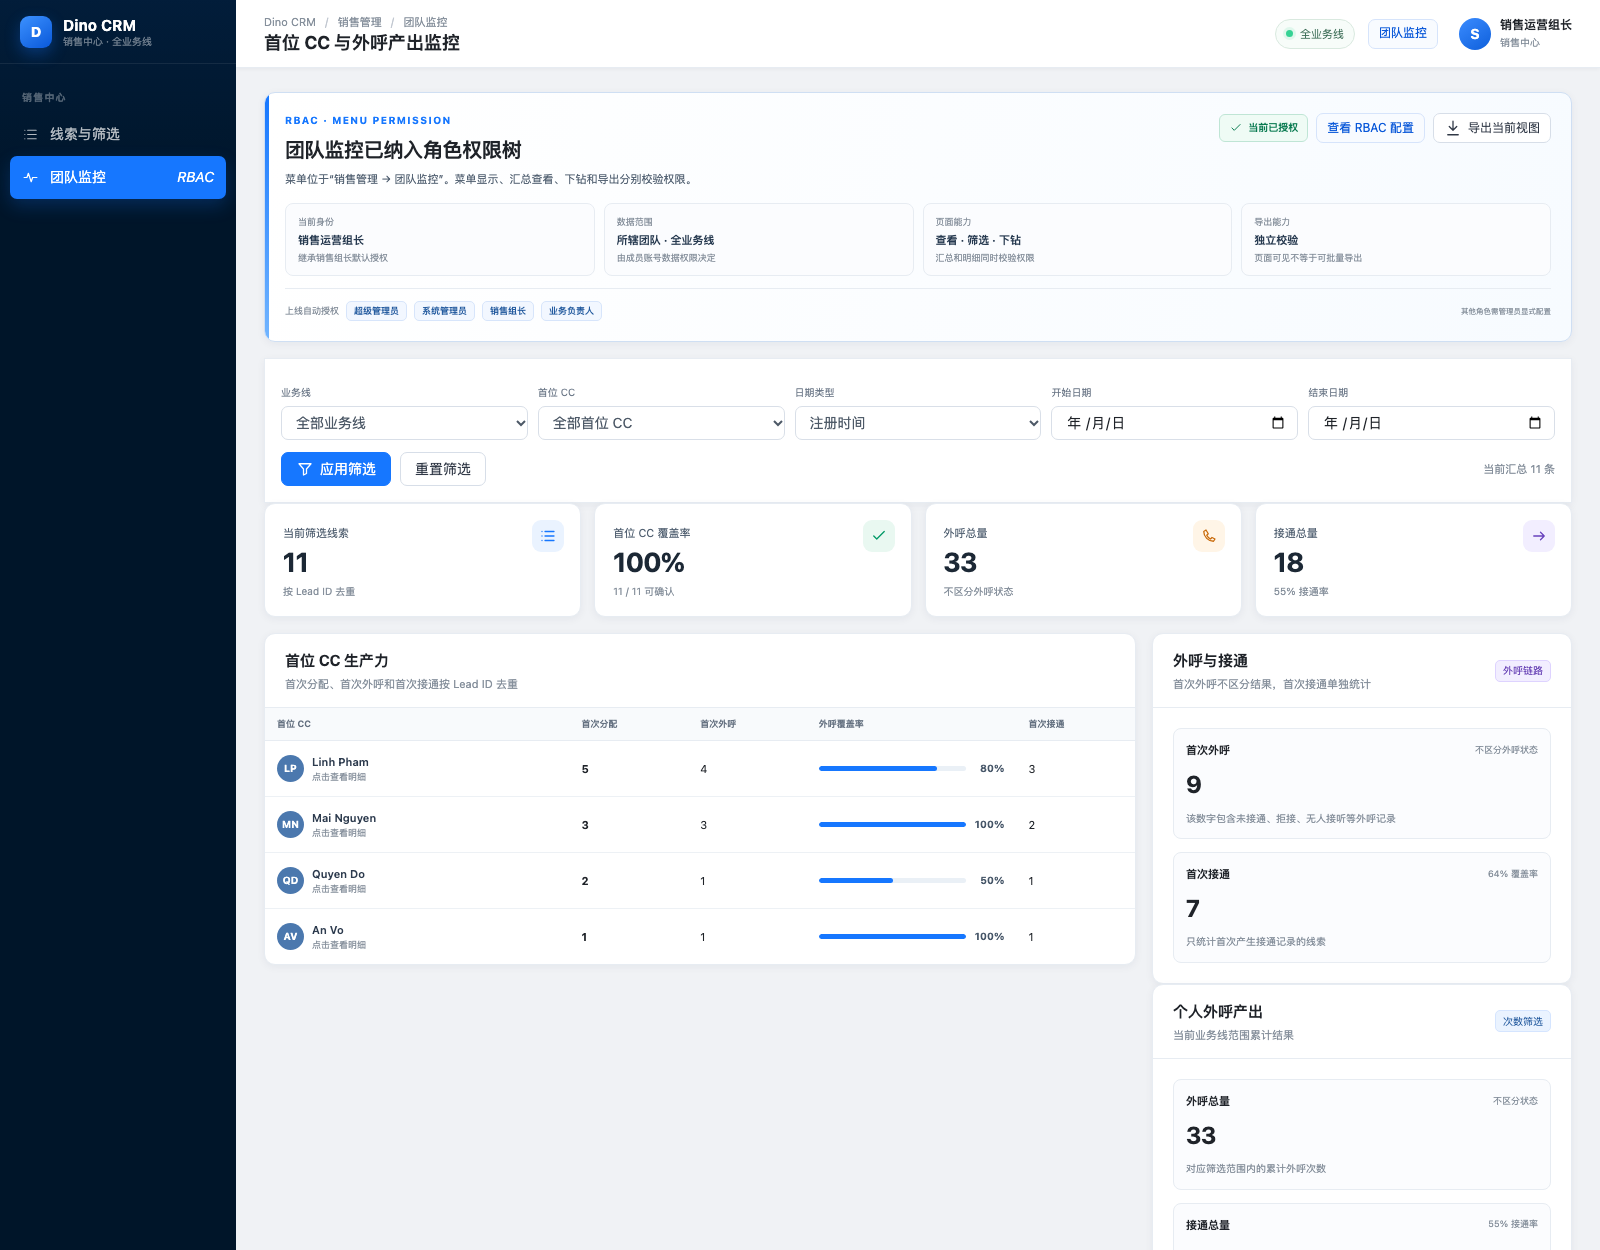
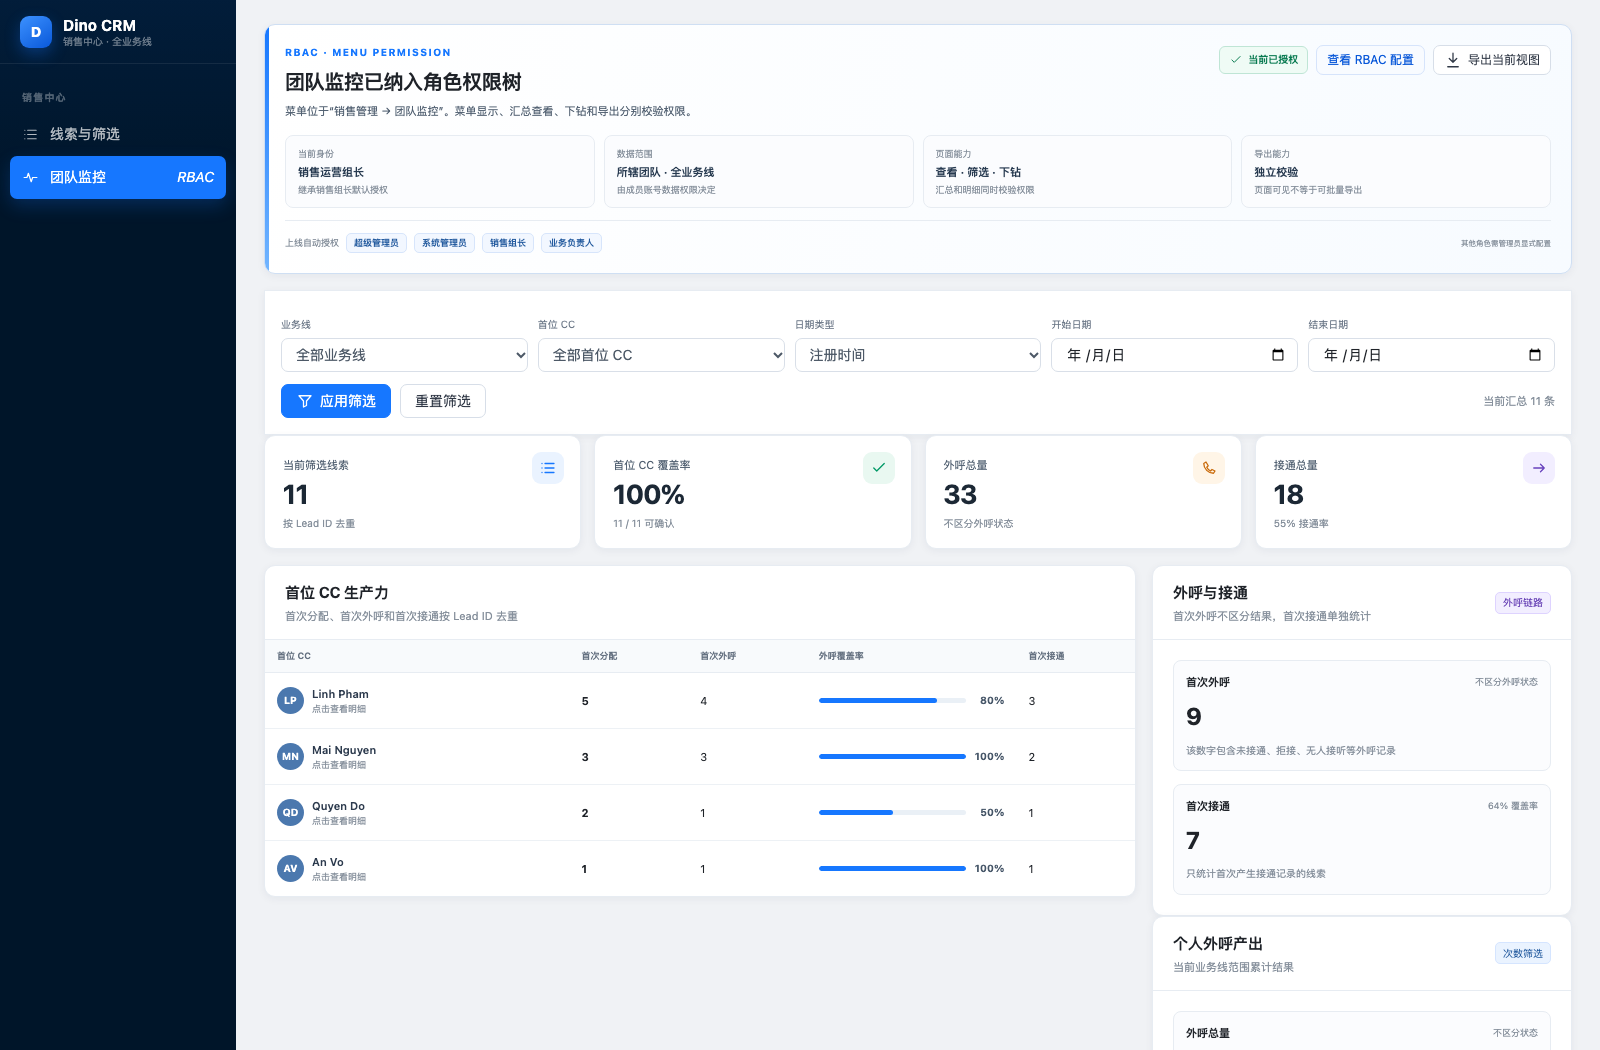
fix: remove prototype page header
Removes the global prototype header while retaining sidebar navigation and a lightweight mobile menu trigger.

diff --git a/projects/first-contact/prototype/index.html b/projects/first-contact/prototype/index.html
@@ -47,25 +47,10 @@
     </aside>
 
     <div class="workspace">
-      <header class="topbar">
-        <div class="topbar-left">
-          <button class="icon-btn menu-btn" id="menu-toggle" aria-label="展开导航">
-            <svg><use href="#i-menu"></use></svg>
-          </button>
-          <div>
-            <div class="crumb" id="breadcrumb">Dino CRM <span>/</span> 销售管理 <span>/</span> 销售中心</div>
-            <h1 id="page-title">我的跟进 · 首位联系人</h1>
-          </div>
-        </div>
-        <div class="topbar-right">
-          <span class="env-tag"><i></i> 全业务线</span>
-          <button class="btn btn-secondary btn-small" data-route="monitor">团队监控</button>
-          <div class="account">
-            <div class="avatar">S</div>
-            <div><strong>销售运营组长</strong><span>销售中心</span></div>
-          </div>
-        </div>
-      </header>
+      <button class="icon-btn menu-btn floating-menu-btn" id="menu-toggle" aria-label="展开导航">
+        <svg><use href="#i-menu"></use></svg>
+      </button>
+      <h1 class="sr-only" id="page-title">我的跟进 · 首位联系人</h1>
       <main class="content" id="content" tabindex="-1"></main>
     </div>
   </div>

diff --git a/projects/first-contact/prototype/styles.css b/projects/first-contact/prototype/styles.css
@@ -190,6 +190,18 @@ svg { width: 18px; height: 18px; fill: none; stroke: currentColor; stroke-width:
   background: #fff;
 }
 .menu-btn { display: none; }
+.floating-menu-btn { position: fixed; top: 14px; left: 14px; z-index: 45; background: rgba(255, 255, 255, 0.96); box-shadow: var(--shadow); }
+.sr-only {
+  position: absolute;
+  width: 1px;
+  height: 1px;
+  padding: 0;
+  margin: -1px;
+  overflow: hidden;
+  clip: rect(0, 0, 0, 0);
+  white-space: nowrap;
+  border: 0;
+}
 
 .content { width: 100%; min-width: 0; max-width: 1680px; margin: 0 auto; padding: 24px 28px 56px; }
 main:focus { outline: none; }
@@ -865,7 +877,7 @@ main:focus { outline: none; }
   .workspace { margin-left: 0; }
   .menu-btn { display: grid; }
   .topbar-right .env-tag, .topbar-right .btn-secondary { display: none; }
-  .content { padding: 18px 16px 44px; }
+  .content { padding: 66px 16px 44px; }
   .stat-grid { grid-template-columns: repeat(2, minmax(0, 1fr)); }
   .hero-main { align-items: flex-start; flex-direction: column; }
   .hero-note { width: 100%; }

diff --git a/projects/first-contact/prototype/app.js b/projects/first-contact/prototype/app.js
@@ -543,9 +543,6 @@ function render() {
     monitor: "首位 CC 与外呼产出监控"
   };
   document.querySelector("#page-title").textContent = titles[state.route];
-  document.querySelector("#breadcrumb").innerHTML = state.route === "monitor"
-    ? "Dino CRM <span>/</span> 销售管理 <span>/</span> 团队监控"
-    : "Dino CRM <span>/</span> 销售管理 <span>/</span> 销售中心";
   document.querySelectorAll(".nav-item").forEach((item) => item.classList.toggle("is-active", item.dataset.route === state.route));
   if (state.route === "monitor") renderMonitor();
   else renderLeads();
